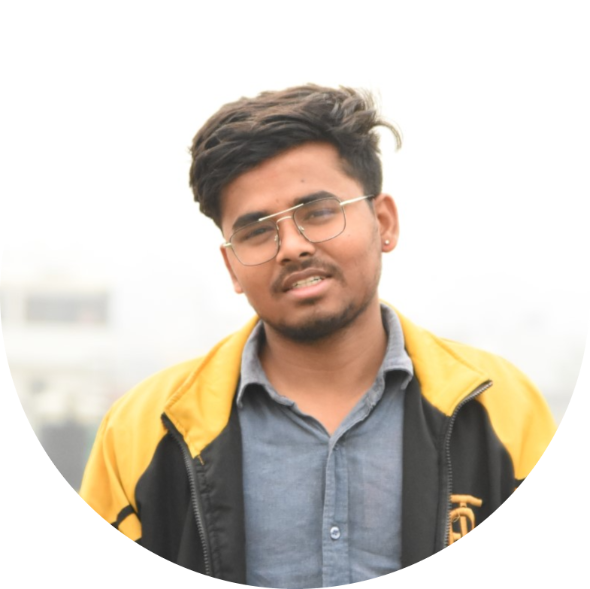
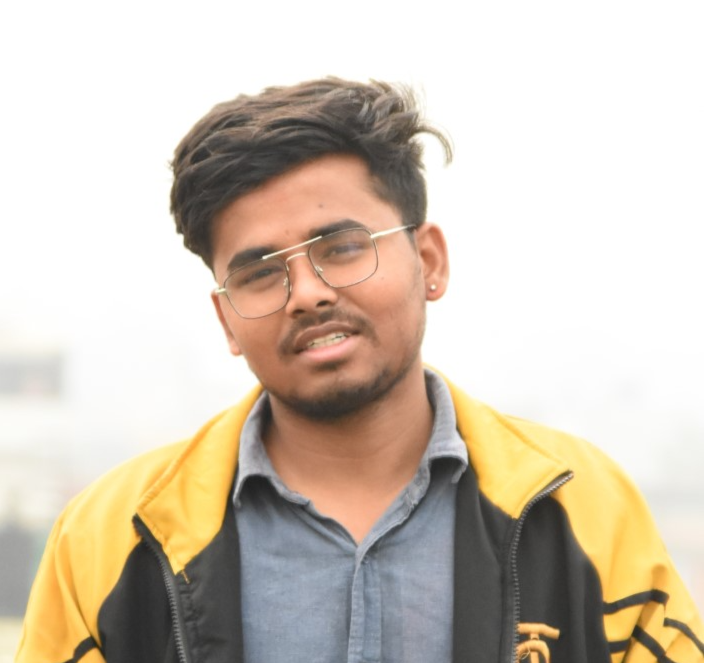
style modified about team

diff --git a/src/pages/About/About.js b/src/pages/About/About.js
@@ -34,6 +34,7 @@ import somen from "../../images/partners/somen.png";
 import suswasthya from "../../images/partners/suswasthya.png";
 
 import Slider from "react-slick";
+import { Card, CardDeck } from "react-bootstrap";
 
 function About({ heroColor, customButton, listImage }) {
     const settings = {
@@ -248,194 +249,61 @@ function About({ heroColor, customButton, listImage }) {
                 </div>
                 <div className={`team-slider ${heroColor}`}>
                     <div className="container">
-                        <Slider {...settings}>
+                        <Slider {...settings} className="slider-content">
                             {ourTeam.map((data, i) => (
-                                <div className="slider-content" key={i}>
-                                    <div className="card">
-                                        <div className="row">
-                                            <div className="col-auto">
-                                                <img
-                                                    src={data.image}
-                                                    className="img-fluid"
-                                                    alt=""
-                                                />
-                                            </div>
-                                            <div className="col">
-                                                <div className="card-block px-2">
-                                                    <h4 className="card-title">
-                                                        {data.name}
-                                                    </h4>
-                                                    <div className="card-text">
-                                                        {data.designation}
-                                                    </div>
-                                                    <div className="social-links d-flex">
-                                                        {data.facebook ? (
-                                                            <a
-                                                                href={
-                                                                    data.facebook
-                                                                }
-                                                            >
-                                                                <FaFacebookSquare />
-                                                            </a>
-                                                        ) : null}
-                                                        {data.instagram ? (
-                                                            <a
-                                                                href={
-                                                                    data.instagram
-                                                                }
-                                                            >
-                                                                <FaInstagram />
-                                                            </a>
-                                                        ) : null}
-
-                                                        {data.mail ? (
-                                                            <a href={data.mail}>
-                                                                <FaEnvelope />
-                                                            </a>
-                                                        ) : null}
-                                                        {data.twitter ? (
-                                                            <a
-                                                                href={
-                                                                    data.twitter
-                                                                }
-                                                            >
-                                                                <FaTwitter />
-                                                            </a>
-                                                        ) : null}
-
-                                                        {data.linkedin ? (
-                                                            <a
-                                                                href={
-                                                                    data.linkedin
-                                                                }
-                                                            >
-                                                                <FaLinkedin />
-                                                            </a>
-                                                        ) : null}
-                                                    </div>
-                                                </div>
-                                            </div>
-                                        </div>
-                                    </div>
-
-                                    {/* <div className="card">
+                                <div className="card">
+                                    <div className="card-body text-center">
                                         <img
                                             src={data.image}
-                                            className="card-img-top"
-                                            alt="..."
+                                            className="rounded-circle center team-image mx-auto"
+                                            alt={data.name}
                                         />
-                                        <div className="card-body">
-                                            <h5 className="card-title">
-                                                {data.name}
-                                            </h5>
-                                            <p className="card-text">
-                                                <small className="text-muted">
-                                                    {data.designation}
-                                                </small>
-                                            </p>
-                                            <div className="social-links d-flex">
-                                                {data.facebook ? (
+                                        <h5 className="card-title mt-2 mb-1">
+                                            {data.name}
+                                        </h5>
+                                        <span className="fs-2 mb-3">
+                                            {data.designation}
+                                        </span>
+                                        <ul className="list-inline">
+                                            {data.facebook ? (
+                                                <li className="list-inline-item">
                                                     <a href={data.facebook}>
                                                         <FaFacebookSquare />
                                                     </a>
-                                                ) : null}
-                                                {data.instagram ? (
+                                                </li>
+                                            ) : null}
+                                            {data.instagram ? (
+                                                <li className="list-inline-item">
                                                     <a href={data.instagram}>
                                                         <FaInstagram />
                                                     </a>
-                                                ) : null}
+                                                </li>
+                                            ) : null}
 
-                                                {data.mail ? (
+                                            {data.mail ? (
+                                                <li className="list-inline-item">
                                                     <a href={data.mail}>
                                                         <FaEnvelope />
                                                     </a>
-                                                ) : null}
-                                                {data.twitter ? (
+                                                </li>
+                                            ) : null}
+                                            {data.twitter ? (
+                                                <li className="list-inline-item">
                                                     <a href={data.twitter}>
                                                         <FaTwitter />
                                                     </a>
-                                                ) : null}
+                                                </li>
+                                            ) : null}
 
-                                                {data.linkedin ? (
+                                            {data.linkedin ? (
+                                                <li className="list-inline-item">
                                                     <a href={data.linkedin}>
                                                         <FaLinkedin />
                                                     </a>
-                                                ) : null}
-                                            </div>
-                                        </div>
-                                    </div> */}
-
-                                    {/* <div className="card mr-3">
-                                        <div className="row no-gutters justify-content-center">
-                                            <div className="col-md-3">
-                                                <img
-                                                    src={data.image}
-                                                    alt="..."
-                                                    className="img-fluid"
-                                                />
-                                            </div>
-                                            <div className="col-md-8">
-                                                <div className="card-body">
-                                                    <h5 className="card-title">
-                                                        {data.name}
-                                                    </h5>
-                                                    <p className="card-text">
-                                                        <small className="text-muted">
-                                                            {data.designation}
-                                                        </small>
-                                                    </p>
-                                                    <div className="social-links d-flex">
-                                                        {data.facebook ? (
-                                                            <a
-                                                                href={
-                                                                    data.facebook
-                                                                }
-                                                            >
-                                                                <FaFacebookSquare />
-                                                            </a>
-                                                        ) : null}
-                                                        {data.instagram ? (
-                                                            <a
-                                                                href={
-                                                                    data.instagram
-                                                                }
-                                                            >
-                                                                <FaInstagram />
-                                                            </a>
-                                                        ) : null}
-
-                                                        {data.mail ? (
-                                                            <a href={data.mail}>
-                                                                <FaEnvelope />
-                                                            </a>
-                                                        ) : null}
-                                                        {data.twitter ? (
-                                                            <a
-                                                                href={
-                                                                    data.twitter
-                                                                }
-                                                            >
-                                                                <FaTwitter />
-                                                            </a>
-                                                        ) : null}
-
-                                                        {data.linkedin ? (
-                                                            <a
-                                                                href={
-                                                                    data.linkedin
-                                                                }
-                                                            >
-                                                                <FaLinkedin />
-                                                            </a>
-                                                        ) : null}
-                                                    </div>
-                                                </div>
-                                            </div>
-                                        </div>
-                                        <p className="container mt-5">
-                                            {data.content}
-                                        </p>
-                                    </div> */}
+                                                </li>
+                                            ) : null}
+                                        </ul>
+                                    </div>
                                 </div>
                             ))}
                         </Slider>

diff --git a/src/pages/About/_about.scss b/src/pages/About/_about.scss
@@ -47,28 +47,12 @@
 
 .team-slider {
     .slider-content {
-        .card {
-            background-color: transparent !important;
-            border: none !important;
-
-            flex-direction: row;
-            align-items: center;
+        ul {
+            font-size: 25px;
         }
-        .card-title {
-            font-weight: bold;
-        }
-        .card img {
-            width: 30%;
-            border-top-right-radius: 0;
-            border-bottom-left-radius: calc(0.25rem - 1px);
-        }
-
-        .social-links {
-            a {
-                color: #fff !important;
-                font-size: 26px;
-                padding-right: 12px;
-            }
+        .team-image {
+            height: 200px !important;
+            width: 200px !important;
         }
     }
     .slick-dots {
@@ -82,19 +66,23 @@
         .slick-dots li button:before {
             background: #2836a0 !important;
         }
-        .social-links {
-            a {
-                color: #071e40 !important;
+        .slider-content {
+            ul {
+                li,
+                a {
+                    color: #071e40;
+                }
             }
         }
     }
-    // &.hero-dark {
-    //     background-color: #152e52;
-    // }
-    .social-links {
-        img {
-            width: 50px !important;
-            height: 20px !important;
+    &.hero-dark {
+        .slider-content {
+            ul {
+                li,
+                a {
+                    color: #fff;
+                }
+            }
         }
     }
 }

diff --git a/src/components/Features/Features.js b/src/components/Features/Features.js
@@ -63,7 +63,9 @@ function Features({ heroColor, customButton, borderButton }) {
                                     </div>
                                     <div className={`group-title`}>
                                         <h2>{data.title}</h2>
-                                        <p>{data.detail}</p>
+                                        <p className="text-justify">
+                                            {data.detail}
+                                        </p>
                                     </div>
                                 </div>
                             </div>
